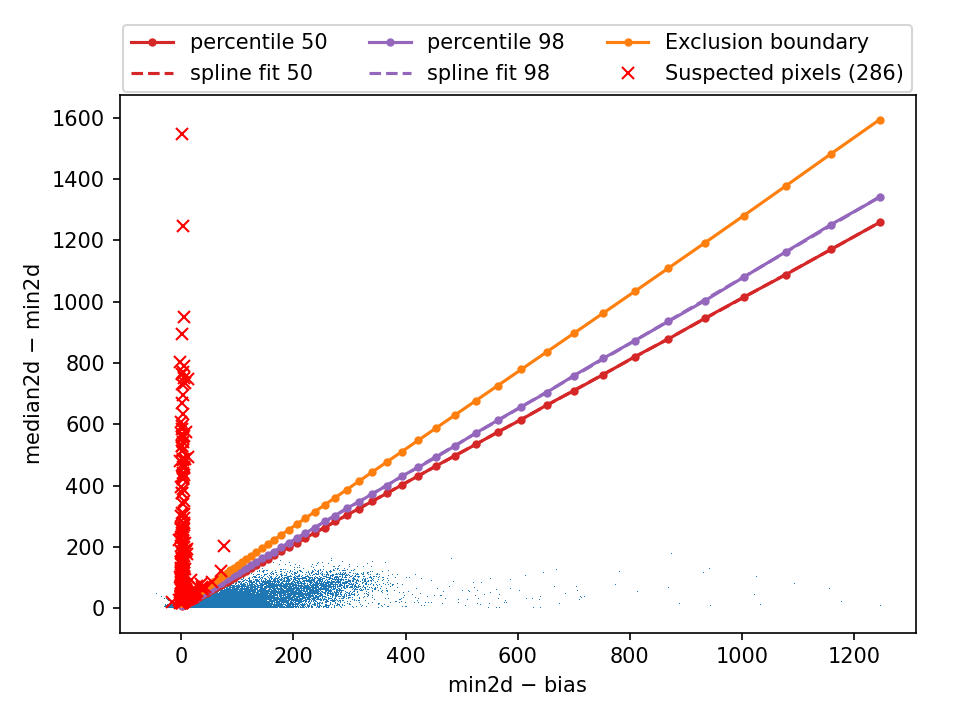
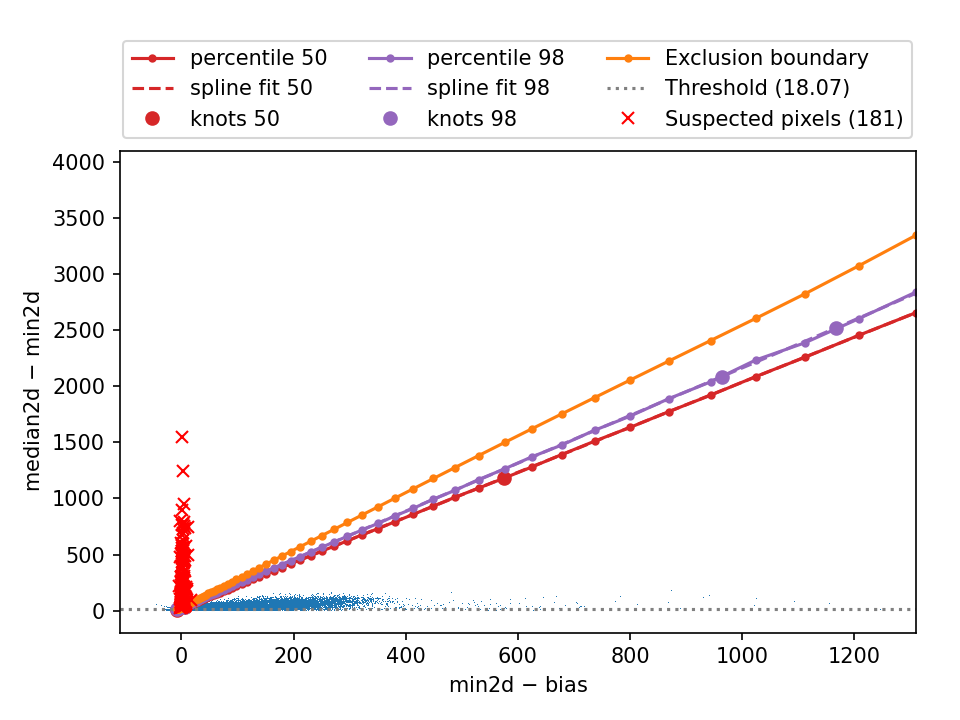
Update mediancr section

diff --git a/cookbook/mediancr.rst b/cookbook/mediancr.rst
@@ -7,8 +7,16 @@ CR not removed by median stacking
 The different recipes in MEGARA DRP use by default a median combination of
 three or more images to obtain an average exposure and thus eliminate cosmic
 rays. However, when exposure times are long, it is not uncommon for the same
-pixel to be affected by a cosmic ray in consecutive exposures. For this reason,
-a procedure has been introduced to address this issue.
+pixel to be affected by a cosmic ray in consecutive exposures. 
+
+The most obvious initial solution is to closely examine the resulting image
+(e.g., the ``final_rss.fits`` file) and interpolate the defective pixels using
+information from neighboring pixels. However, it may be useful to employ a
+procedure that automatically detects and corrects pixels affected by cosmic
+rays in consecutive images, so that manual interpolation is not necessary. An
+automatic procedure of this kind has been introduced in the **numina** package,
+which can be easily invoked by modifying the default image combination method
+used by MEGARA DRP.
 
 
 The mediancr method
@@ -37,37 +45,40 @@ The mediancr method
    calibration images.
 
 The method can only be employed when there are three or more exposures
-available, and is based on detecting pixels that simultaneously verify two
-different criteria. The first one is shown in the following figure, which is
-automically generated in the *work* subdirectory with
-the name ``mediancr_diagnostic.png``.
+available, and is based on detecting pixels that simultaneously verify three
+different criteria. The first two of them are shown in the following figure,
+which is automically generated in the *work* subdirectory with the name
+``mediancr_diagnostic.png``.
 
 .. image:: _static/mediancr/mediancr_diagnostic.png
    :width: 100%
-   :alt: diagnostic diagram to detect cosmic rays in median combination
+   :alt: diagnostic diagram to detect double cosmic rays in median combination
 
 The three (or more) available individual exposures are arranged into a 3D
 stack, from which it is easy to generate 2D images (with the same dimensions as
 the individual exposures) that contain the minimum value ``min2d``, maximum
-value ``max2d``, and median value ``median2d``. On the vertical axis of the
-previous figure, the difference between the ``median2d`` and ``min2d`` of each
-pixel is shown, while the horizontal axis displays ``min2d - bias``.  The
-different lines correspond to the result of performing numerical simulations
-using the gain, readout noise, bias, and the minimum and maximum flatfield
-values. These simulations are computed for discrete values of ``min2d - bias``
-(represented as filled circles overimposed on the lines).  For each of these
-values, the percentiles 50 and 98 are computed. Since the simulated values are
-unavoidably noisy, the predictions are fitted using splines (dashed lines,
-which are difficult to see unless a zoom is performed). The exclusion boundary
-(orange line) is computed by extending the difference between the spline fit to
-the percentiles 98 and 50 beyond the spline fit to the percentile 98. This
-extension is controlled by a parameter named ``times_boundary_extension`` (see
-below).  Pixels that lie above the calculated exclusion boundary are marked as
-suspected of having been hit by a cosmic ray in more than one exposure (red x's
-in the figure; the total number of pixels is displayed in the legend). An
+value ``max2d``, and median value ``median2d`` at each pixel along the sequence
+of available exposures. On the vertical axis of the previous figure, the
+difference between the ``median2d`` and ``min2d`` of each pixel is shown, while
+the horizontal axis displays ``min2d - bias``.  The different solid lines correspond
+to the result of performing numerical simulations using the gain, readout
+noise, bias, and the minimum and maximum flatfield values. These simulations
+are computed for discrete values of ``min2d - bias`` (represented as filled
+circles overimposed on the lines).  For each of these values, the percentiles
+50 and 98 are computed. Since the simulated values are unavoidably noisy, the
+predictions are fitted using splines (dashed lines, which are difficult to see
+unless a zoom is performed). The exclusion boundary (orange line) is computed
+by extending the difference between the spline fit to the percentiles 98 and 50
+beyond the spline fit to the percentile 98. This extension is controlled by a
+parameter named ``times_boundary_extension`` (see below).  Pixels that lie
+above the calculated exclusion boundary and above a minimum threshold in the
+vertical axis of the figure (dotted gray line) are initially flagged as
+suspected of having been hit by a cosmic ray in more than one exposure.  An
 additional requirement (not shown) is imposed: the considered pixel must have a
 ``max2d`` value above three times the readout noise (this avoids pixels with
-negative signal very close to the bias level in the raw images).
+negative signal very close to the bias level in the raw images). The final set
+of suspected pixels are plotted with red x's in the figure, with the total
+number of pixels displayed in the legend.
 
 **The signal in the suspected pixels is replaced, in the** ``median2d``
 **image, by the corresponding** ``min2d`` **value.** This means that the
@@ -82,61 +93,70 @@ in the requirements list of the observation result file. For example:
    :language: yaml
    :linenos:
    :lineno-start: 1
-   :emphasize-lines: 9-22
+   :emphasize-lines: 9-25
 
 It is important to note that, in addition to specifying the method as ``method:
 mediancr``, some additional parameters must also be provided under the
 ``method_kwargs:`` key, in particular:
 
-- ``gain``: the detector gain (electron/ADU). Although the MEGARA detector
+- ``gain``: detector gain (electron/ADU). Although the MEGARA detector
   exhibits two different gains (1.60 and 1.73; one value for each detector
   half), here we can use a single value.  This is not critical because the two
   values are not very different and the detection criterium is more sensitive
   to the following parameters.
-- ``rnoise``: the readout noise (ADU)
+- ``rnoise``: readout noise (ADU)
 - ``bias`` (default value 0.0): bias value (ADU). **This must be set to zero
   for MEGARA because the code that applies the mediancr method receives
   preprocessed exposures where the bias level has already been subtracted.**
-- ``flatmin`` (default 1.0): the minimum simulated normalized flatfield value.
-- ``flatmax`` (default 1.0): the maximum simulated normalized flatfield value.
+- ``flatmin`` (default 1.0): minimum simulated normalized flatfield value.
+- ``flatmax`` (default 1.0): maximum simulated normalized flatfield value.
+- ``knots_splfit`` (default 3): number of inner knots employed in the spline
+  fit to the simulated boundary data.
 - ``times_boundary_extension`` (default 3.0): number of times that the vertical
   distance between the percentiles 98 and 50 of the simulated data is employed
   to define the exclusion boundary beyond the percentile 98.
+- ``threshold`` (default Null; this value in the YAML file is converted to None
+  in Python): minimum threshold for ``median2d - min2d`` to consider a pixel as
+  a double cosmic ray. If None, the threshold is computed automatically from the
+  minimum boundary value in the numerical simulations.
+- ``minimum_max2d_rnoise`` (default 5.0): minimum value of ``max2d`` in
+  readout noise units to consider a pixel as a double cosmic ray. This avoids
+  false positives when a pixel exhibits a large negative value in one of the
+  individual exposures.
 - ``interactive`` (default False): if True, the code generates an interactive
   matplotlib plot with the diagnostic diagram (allowing the user to use the
   zoom and pan buttons). It is very convenient to set this parameter to True,
   interactively examine the diagnostic diagram, stop the program execution, and
-  try changing the values of ``flatmin``, ``flatmax``, and
-  ``times_boundary_extension``. Other parameters such as ``rnoise`` and
-  ``gain`` can also be modified, although the user should take into account
-  that the objective is to find an automatic way to select uncorrected cosmic
-  rays, not to make use of realistic values of gain, readout noise or flatfield
-  variation. Note that the values of ``flatmin`` and ``flatmax`` can be used
-  to allow the simulations to account, to some extent, for the effect of signal
-  variations in different MEGARA exposures. This can happen, for example, in
-  sky lines (when exposure times are long), or due to small shifts in the
-  telescope pointing.
+  try changing the values of ``flatmin``, ``flatmax``,
+  ``times_boundary_extension`` and ``threshold``. Other parameters such as
+  ``rnoise`` and ``gain`` can also be modified, although the user should take
+  into account that the objective is to find an automatic way to select
+  uncorrected cosmic rays, not to make use of realistic values of gain, readout
+  noise or flatfield variation. Note that the values of ``flatmin`` and
+  ``flatmax`` can be used to allow the simulations to account, to some extent,
+  for the effect of signal variations in different MEGARA exposures. This can
+  happen, for example, in sky lines (when exposure times are long), or due to
+  small shifts in the telescope pointing.
 - ``dilation`` (default 1): the pixels composing each cosmic ray can be
   surrounded by a dilation factor, which expands the mask around the detected
   cosmic ray pixels. A value of zero means that no dilation is applied.
   Typically a value of 1 is useful, since it allow to replace the tails of
   cosmic rays (whose pixels exhibit a lower signal).
-- ``plots`` (default False): if True, a PDF file called 
-  ``mediancr_identified_cr.pdf`` is
-  generated with the individual double cosmic rays identified.
-  Note that enabling this option may introduce a noticeable penalty in
-  execution time.
+- ``plots`` (default False): if True, a PDF file called
+  ``mediancr_identified_cr.pdf`` is generated with the individual double cosmic
+  rays identified. Note that enabling this option may introduce a noticeable
+  penalty in execution time.
 - ``semiwindow`` (default 15): the semiwindow size to plot the double cosmic
   rays. Only used if ``plots`` is True.
 - ``color_scale`` (default minmax): the color scale employed in the
   ``mediancr_identified_cr.pdf`` images. Only used if ``plots`` is True. The
   valid options are minmax and zscale.
-- ``maxplots`` (default 10): the maximum number of suspicious cosmic rays to
-  display. Note that setting a limit is useful when experimenting with the
-  previous values of ``gain``, ``rnoise``, etc., as it prevents
-  generating an excessively large number of plots due to false positive
-  detections. A negative value indicates that all the suspected double CR are
-  displayed. This option is only used if ``plots`` is True.
+- ``maxplots`` (default 10): the maximum number of suspicious double cosmic
+  rays to display. Note that setting a limit is useful when experimenting with
+  the previous values of ``gain``, ``rnoise``, etc., as it prevents generating
+  an excessively large number of plots due to false positive detections. A
+  negative value indicates that all the suspected double CR are displayed. This
+  option is only used if ``plots`` is True.
 
 Pixels suspected of having been affected by cosmic rays in two of the
 available exposures are grouped when they form a connected cluster. These are
